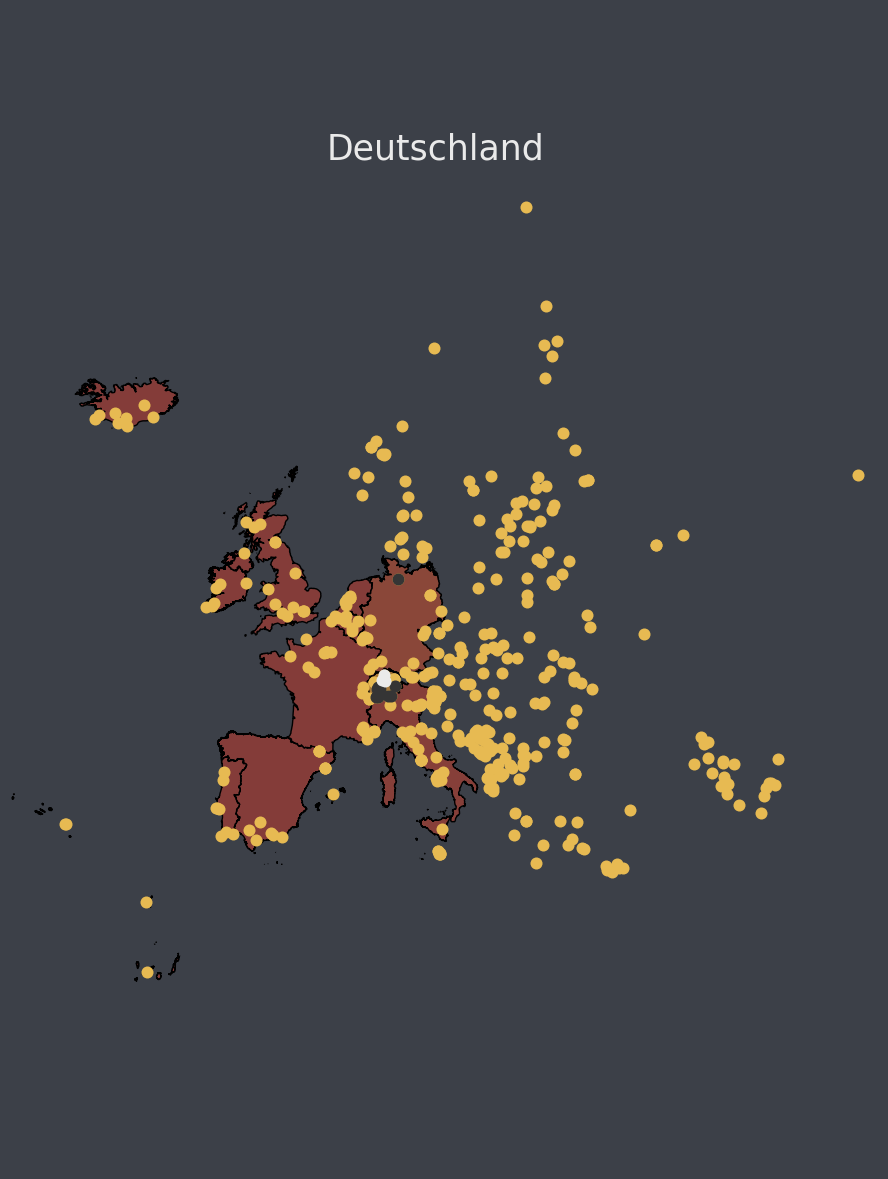
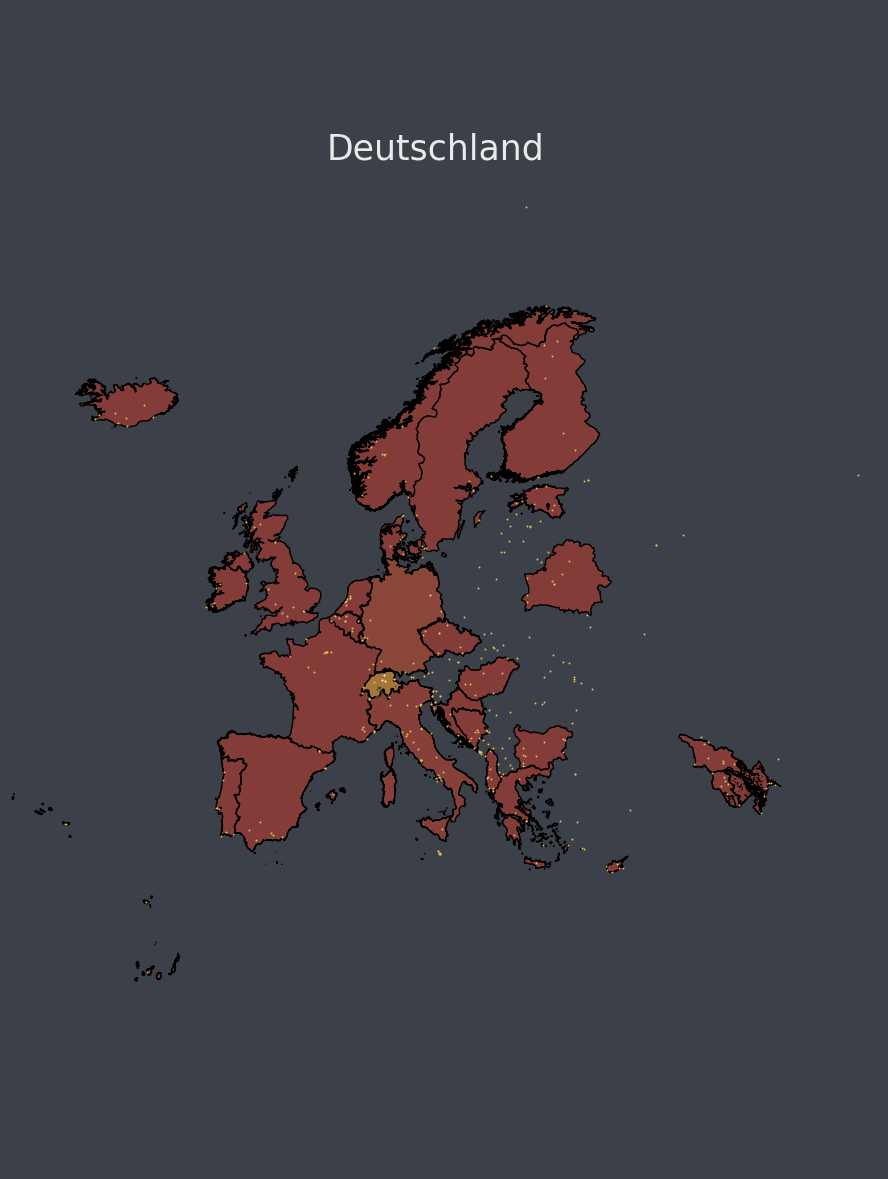
add the marker and label to metadata

diff --git a/main.py b/main.py
@@ -12,7 +12,7 @@ from colormap import custom_cmap
 
 
 # Set global variables, directories for map creation and site locations
-SCALE = 5
+SCALE = 1
 
 # US National Park Global Variables
 #PATH = "us"
